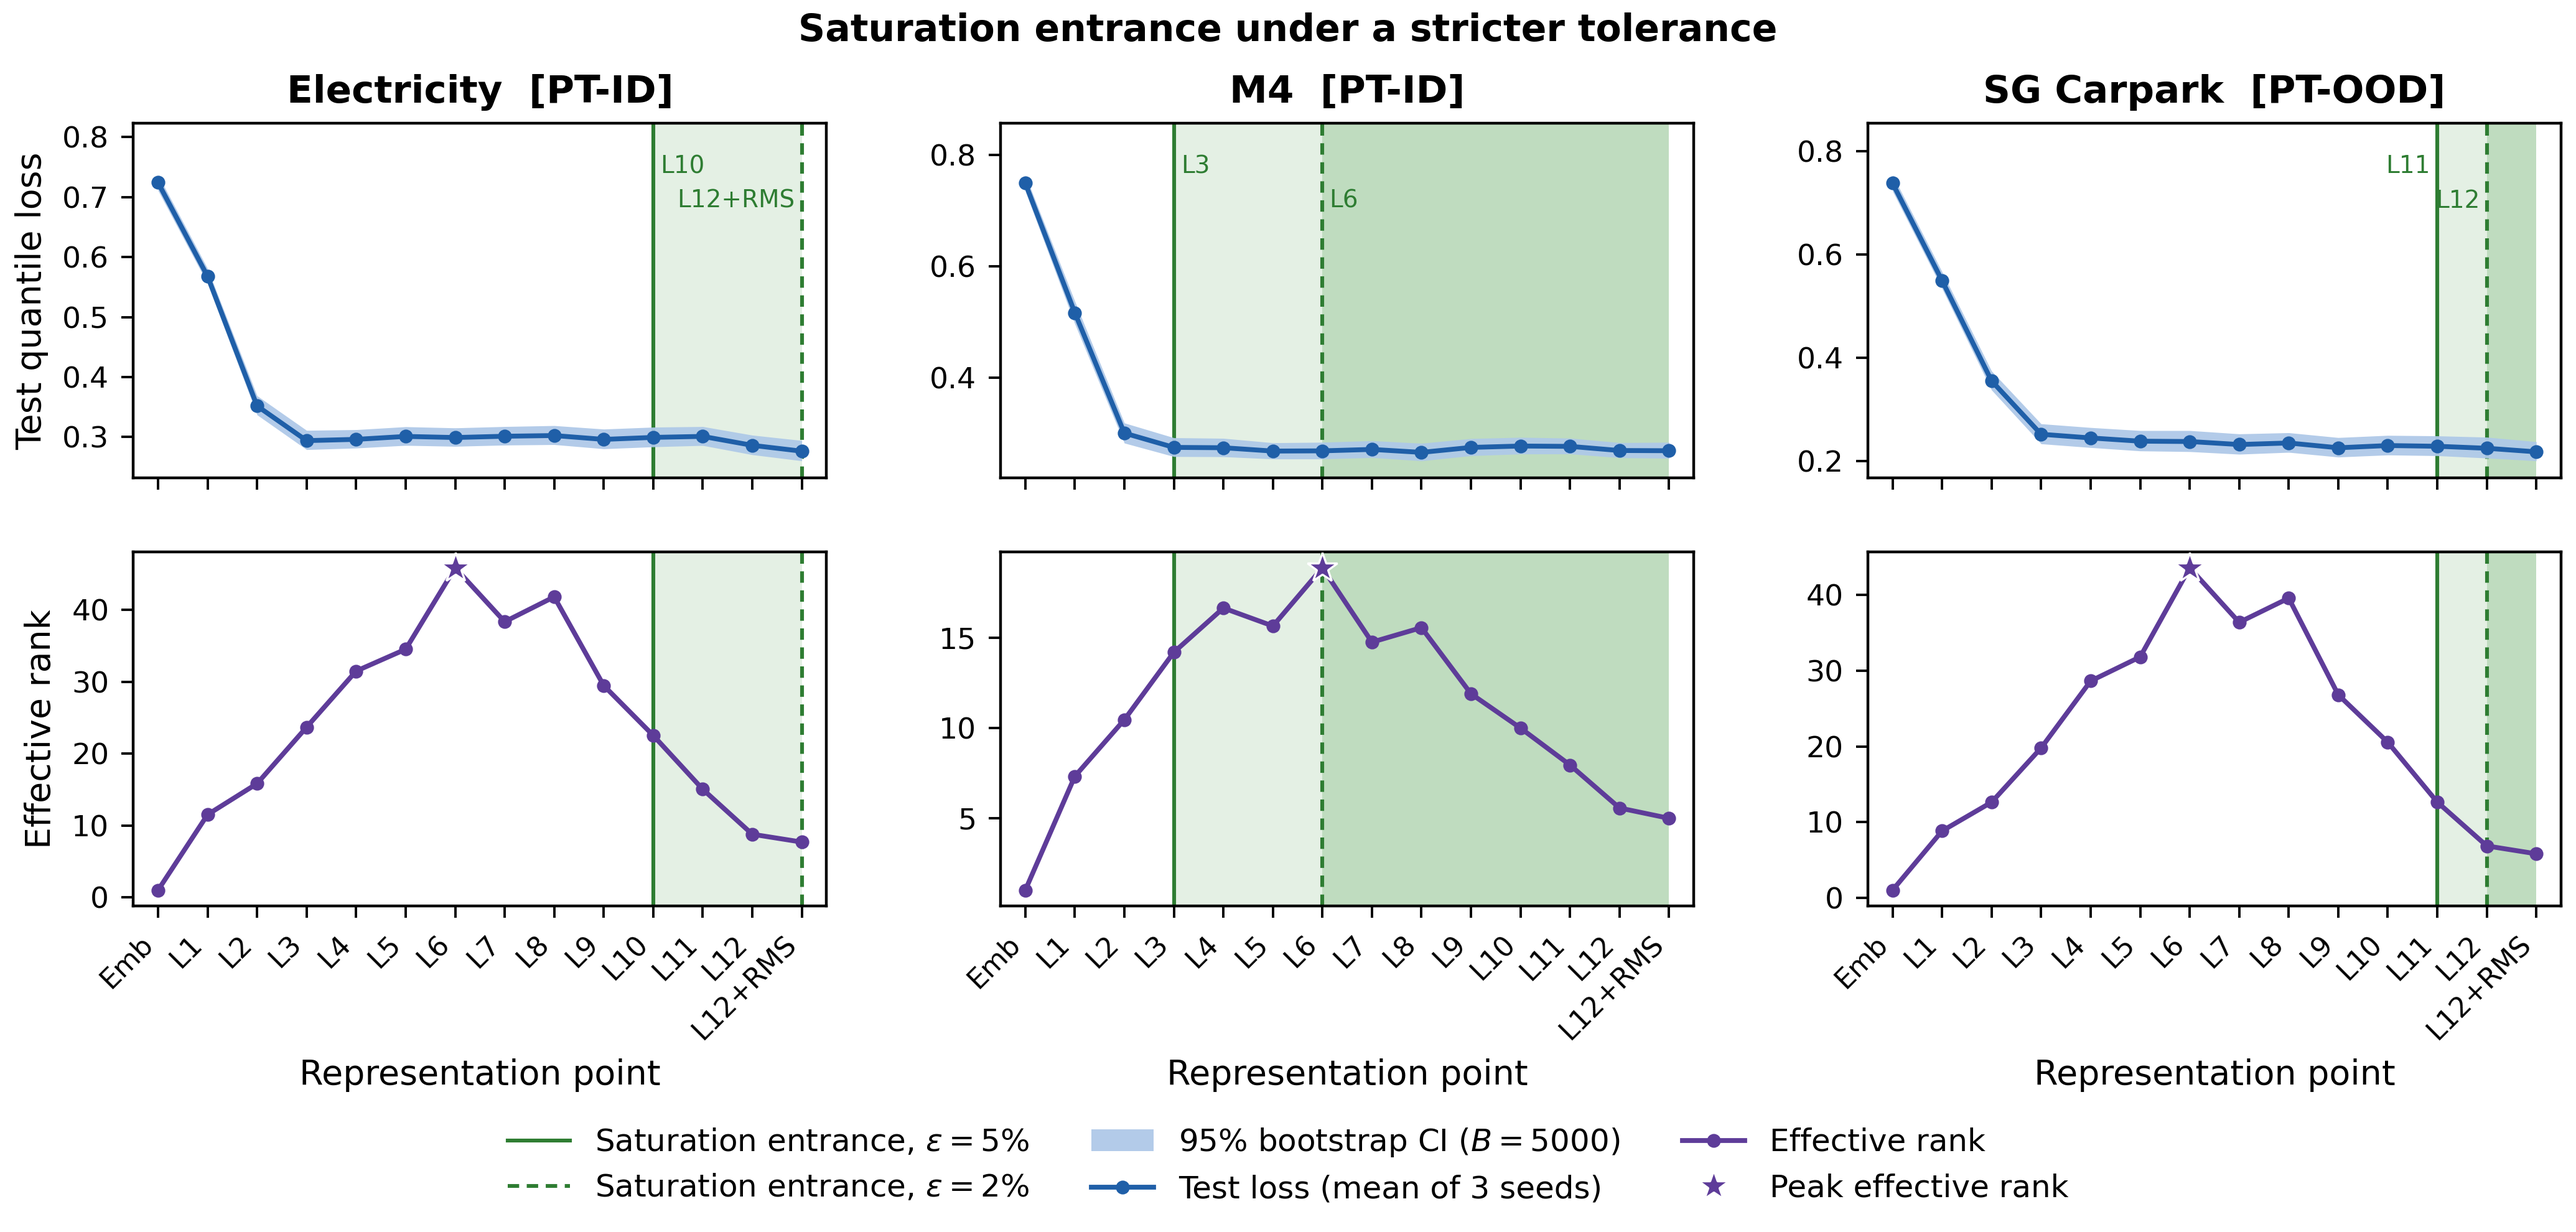
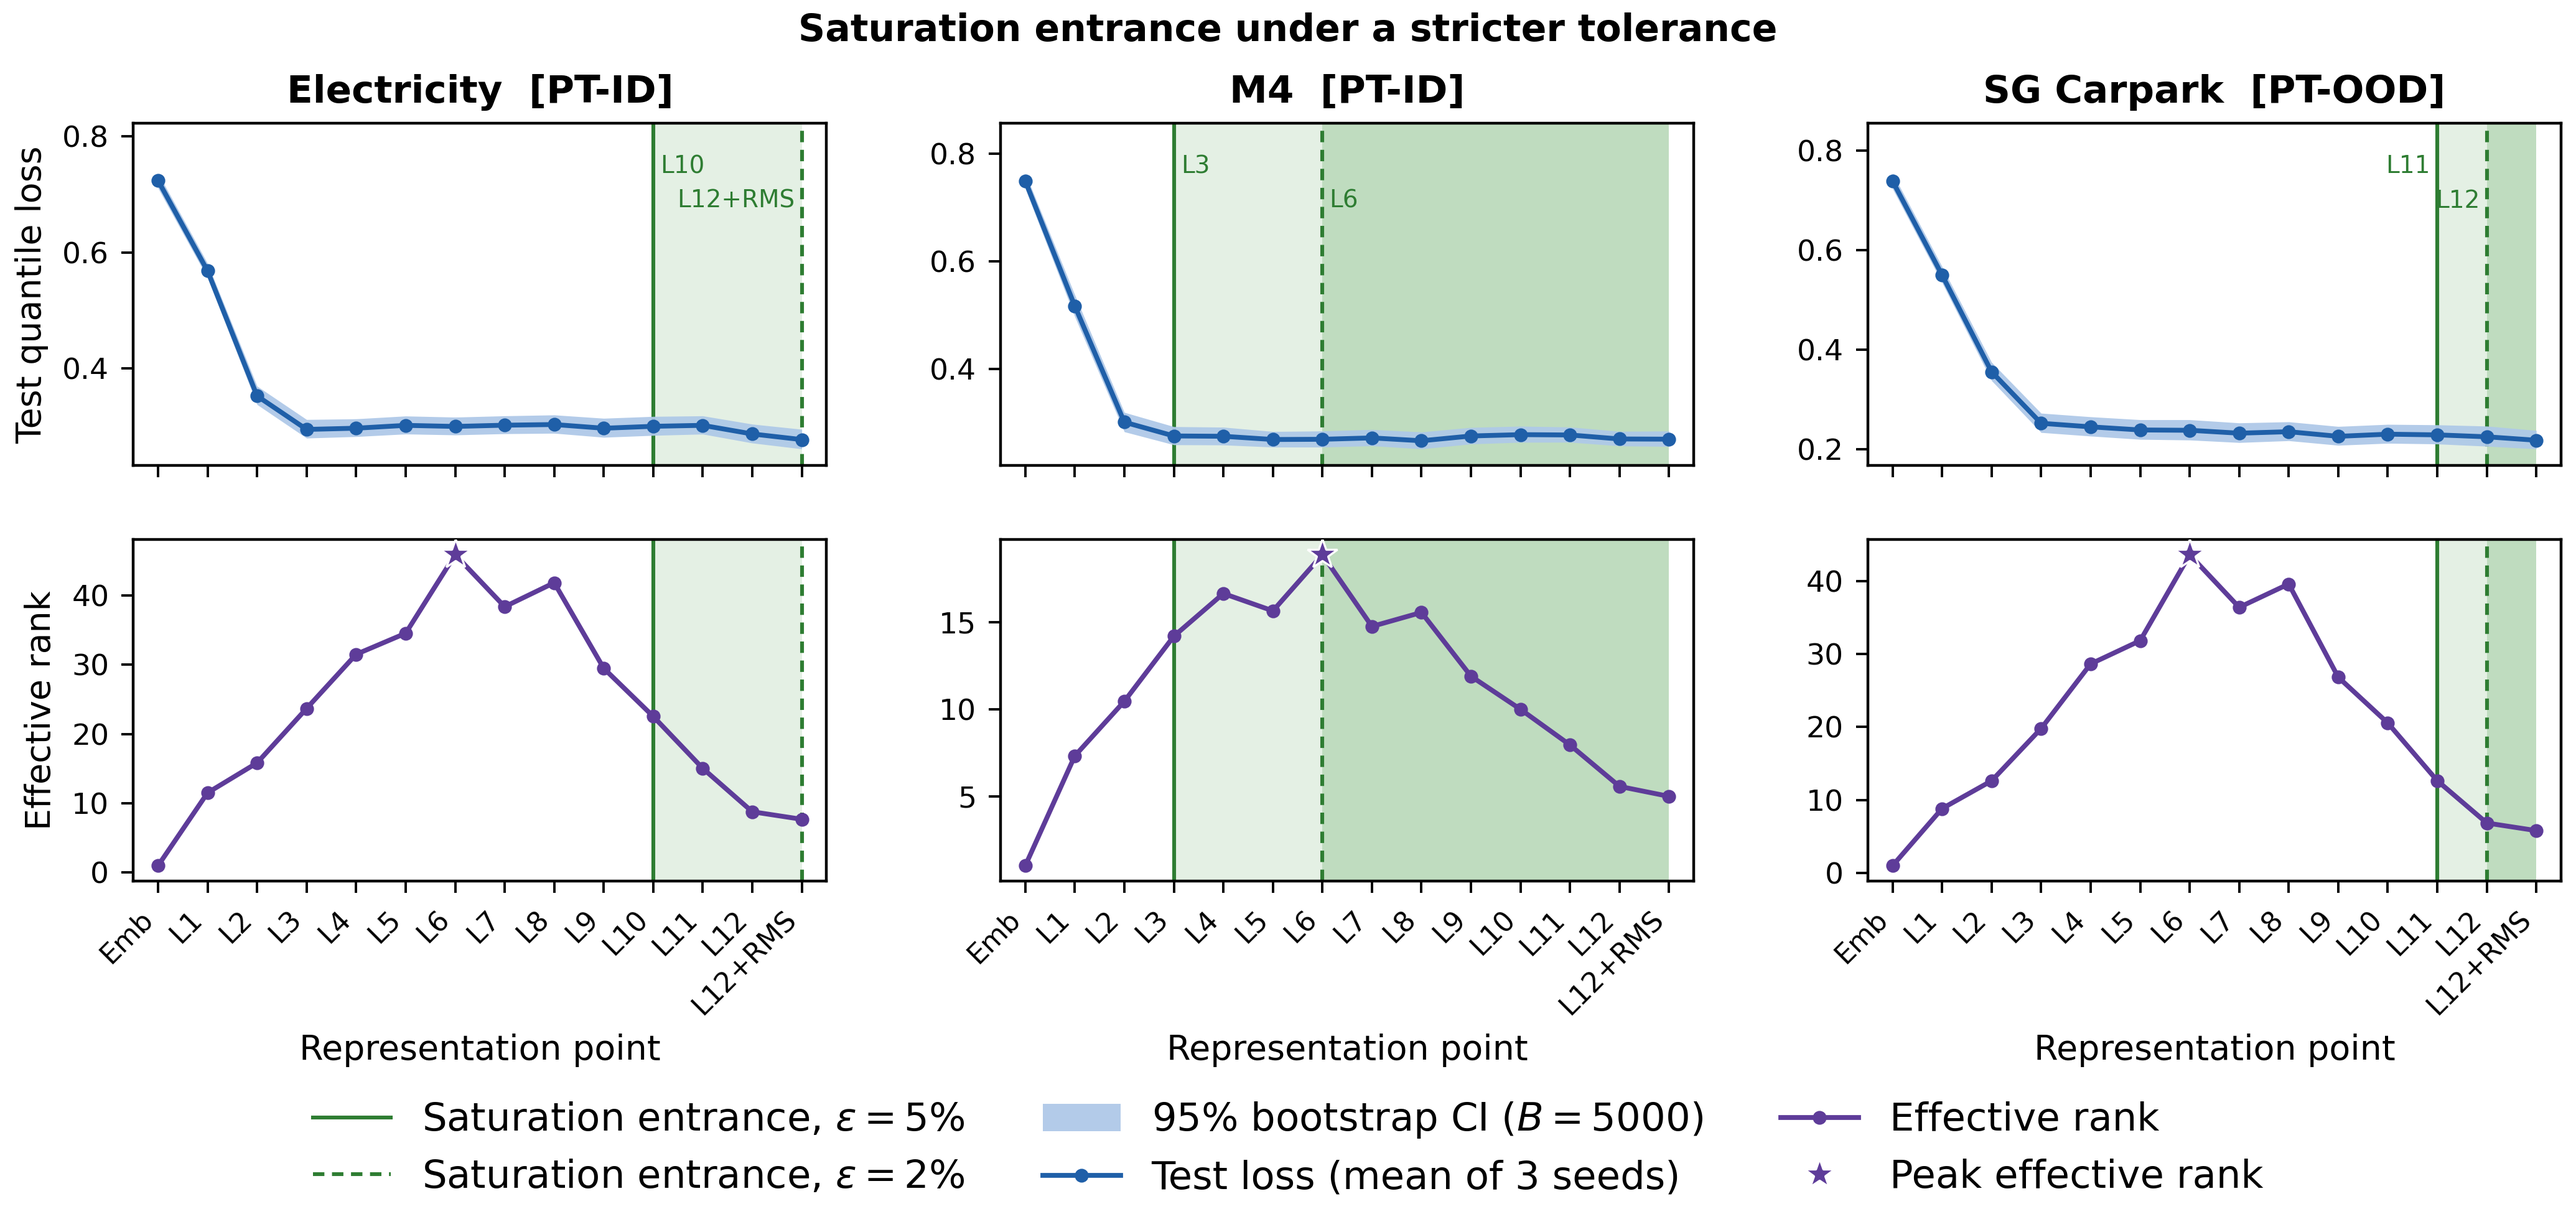
Scale type in the saturation-sensitivity figure without compressing the panels
--eps-font-scale enlarges every text element, and the panel box grows with it,
so the curves keep their aspect instead of being squeezed to make room. Marker
sizes, line widths and the point-offsets of the entrance labels scale with the
type, and the shared bottom legend gets an extra 1.25x on top so it stays
readable at the size an appendix figure is printed.

The all-seven panel is regenerated at scale 1.55; the three-dataset version
keeps the default 1.0 and is unchanged apart from a re-render.

diff --git a/experiments/make_id_paper_figures.py b/experiments/make_id_paper_figures.py
@@ -203,7 +203,7 @@ def make_figure(rows, title, stem, boot_b, dpi=400, show_title=True):
                        label="Saturation entrance (validation)")
             ax.fill_between(x, d["lo"], d["hi"], color=LOSS_BAND, alpha=0.95, lw=0, zorder=2,
                             label=f"95% bootstrap CI ($B={boot_b}$)")
-            ax.plot(x, d["point"], "-o", ms=3.0, color=LOSS, mfc=LOSS, mec=LOSS, zorder=3,
+            ax.plot(x, d["point"], "-o", ms=ms_pt, color=LOSS, mfc=LOSS, mec=LOSS, zorder=3,
                     label=f"Test loss (mean of {len(RUN_SEEDS)} seeds)")
             ax.set_title(TITLES[d["tag"]], fontweight="bold")
             span = d["hi"].max() - d["lo"].min()      # headroom: never clip the CI band
@@ -216,7 +216,7 @@ def make_figure(rows, title, stem, boot_b, dpi=400, show_title=True):
             ax = axes[1, col]
             ax.axvspan(ls, last, color=TUNNEL_FILL, alpha=0.55, lw=0, zorder=0)
             ax.axvline(ls, color=TUNNEL_LINE, lw=0.9, ls=(0, (4, 2)), alpha=0.75, zorder=1)
-            ax.plot(x, d["erank"], "-o", ms=3.0, color=ERANK, mfc=ERANK, mec=ERANK, zorder=3,
+            ax.plot(x, d["erank"], "-o", ms=ms_pt, color=ERANK, mfc=ERANK, mec=ERANK, zorder=3,
                     label="Effective rank")
             pk = d["peak"]
             ax.plot([pk], [d["erank"][pk]], "*", ms=9.0, color=ERANK, mec="white", mew=0.6,
@@ -1100,7 +1100,8 @@ def load_eps_dataset(tag, boot_b, seed, epsilons=EPS_BANDS):
 
 
 def make_eps_figure(rows, title, stem, boot_b, epsilons=EPS_BANDS, ncol=None, dpi=400,
-                    show_title=True):
+                    show_title=True, font_scale=1.0, legend_scale=1.25, panel_w=3.45,
+                    panel_h=4.95):
     """Test loss + effective rank per dataset, with one shaded band per tolerance.
 
     The bands nest: looser tolerances open earlier and are drawn lighter, so the darkest region is
@@ -1112,8 +1113,20 @@ def make_eps_figure(rows, title, stem, boot_b, epsilons=EPS_BANDS, ncol=None, dp
     n = len(rows)
     ncol = ncol or n
     nblk = -(-n // ncol)
-    with plt.rc_context(PAPER_RC):
-        fig, axes = plt.subplots(2 * nblk, ncol, figsize=(3.45 * ncol, 4.95 * nblk),
+    # Scale type without shrinking the axes: the panel box grows with the fonts, so a larger
+    # font_scale makes the text bigger rather than squeezing the curves.
+    rc = {**PAPER_RC,
+          **{k: PAPER_RC[k] * font_scale for k in
+             ("font.size", "axes.labelsize", "axes.titlesize",
+              "xtick.labelsize", "ytick.labelsize")},
+          "legend.fontsize": PAPER_RC["legend.fontsize"] * font_scale * legend_scale,
+          "lines.linewidth": PAPER_RC["lines.linewidth"] * (1 + 0.4 * (font_scale - 1)),
+          "axes.linewidth": PAPER_RC["axes.linewidth"] * (1 + 0.4 * (font_scale - 1))}
+    grow = 1 + 0.55 * (font_scale - 1)                    # give the type room, keep the aspect
+    ms_pt, ms_star, ann_pt = 3.0 * grow, 9.0 * grow, 7.0 * font_scale
+    with plt.rc_context(rc):
+        fig, axes = plt.subplots(2 * nblk, ncol,
+                                 figsize=(panel_w * grow * ncol, panel_h * grow * nblk),
                                  layout="constrained", squeeze=False)
         fig.get_layout_engine().set(h_pad=0.05, w_pad=0.06, hspace=0.10, wspace=0.12)
         x = np.arange(len(LABELS))
@@ -1150,13 +1163,14 @@ def make_eps_figure(rows, title, stem, boot_b, epsilons=EPS_BANDS, ncol=None, dp
                 seen.add(pos)
                 edge = pos >= last - 2                    # keep late labels inside the axes
                 ax_loss.annotate(LABELS[pos], xy=(pos, 1.0), xycoords=("data", "axes fraction"),
-                                 xytext=(-2 if edge else 2, -9 - 10 * len(seen - {pos})),
-                                 textcoords="offset points", fontsize=7.0, color=TUNNEL_LINE,
+                                 xytext=((-2 if edge else 2) * font_scale,
+                                         (-9 - 10 * len(seen - {pos})) * font_scale),
+                                 textcoords="offset points", fontsize=ann_pt, color=TUNNEL_LINE,
                                  ha="right" if edge else "left", va="top")
 
             ax_er.plot(x, d["erank"], "-o", ms=3.0, color=ERANK, mfc=ERANK, mec=ERANK, zorder=3,
                        label="Effective rank" if i == 0 else None)
-            ax_er.plot(d["peak"], d["erank"][d["peak"]], "*", ms=9, color=ERANK, mec="white",
+            ax_er.plot(d["peak"], d["erank"][d["peak"]], "*", ms=ms_star, color=ERANK, mec="white",
                        mew=0.6, zorder=4, label="Peak effective rank" if i == 0 else None)
             ax_er.set_xticks(x)
             ax_er.set_xticklabels(LABELS, rotation=45, ha="right")
@@ -1198,6 +1212,9 @@ def main():
     ap.add_argument("--eps-ncol", type=int, default=None,
                     help="columns per block in the saturation-sensitivity figure "
                          "(datasets wrap into blocks of two rows; default: one block)")
+    ap.add_argument("--eps-font-scale", type=float, default=1.0,
+                    help="scale all type in the saturation-sensitivity figure; the panels "
+                         "grow with it, so text gets bigger instead of curves getting squeezed")
     ap.add_argument("--eps-stem", default="appendix_id_saturation_sensitivity",
                     help="output filename stem for the saturation-sensitivity figure")
     ap.add_argument("--figure", default="all", choices=("loss_erank", "cka", "transfer", "ft_boom", "nha", "eps", "all"),
@@ -1217,7 +1234,7 @@ def main():
         rows = [load_eps_dataset(t, a.boot_b, a.seed, a.epsilons) for t in a.eps_datasets]
         make_eps_figure(rows, "Saturation entrance under a stricter tolerance", a.eps_stem,
                         a.boot_b, epsilons=a.epsilons, ncol=a.eps_ncol, dpi=a.dpi,
-                        show_title=not a.no_title)
+                        show_title=not a.no_title, font_scale=a.eps_font_scale)
         if a.figure == "eps":
             return
 
